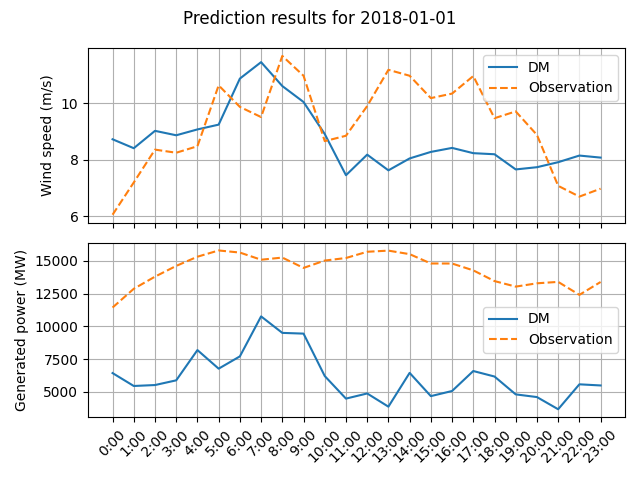
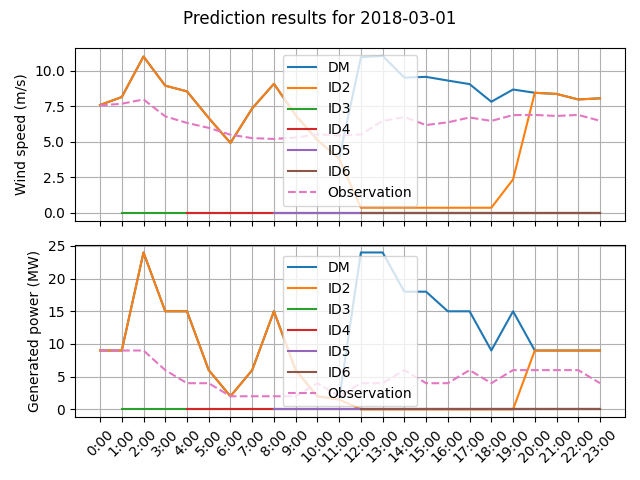
Implemented wind turbine power curve

Changed region(s): [[0.0, 0.5, 0.9688, 0.9688], [0.0, 0.0938, 0.9688, 0.4688], [0.6562, 0.0312, 0.6875, 0.0625]]

diff --git a/pgen_predictor.py b/pgen_predictor.py
@@ -19,9 +19,9 @@ warnings.simplefilter('ignore', UserWarning)
 # Forecast parameters
 hours = [-12, -4, 1, 4, 8, 12]
 labels = ['DM', 'ID2', 'ID3', 'ID4', 'ID5', 'ID6']
-hours = [-12]
-labels = ['DM']
-SARIMA_train_length = 5                     # [days] Training set length for SARIMA prediction
+# hours = [-12]
+# labels = ['DM']
+SARIMA_train_length = 3     # [days] Training set length for SARIMA prediction
 day_start = '2018-03-01'
 day_end = '2018-03-01'
 day_start_ts = pd.Timestamp(day_start)
@@ -53,21 +53,32 @@ nans = dataset.isna().sum()
 print('Amount of nans: ')
 print(nans)
 dataset = dataset.fillna(method='ffill')
+#%% WORKBENCH: Implementing wind turbine power curve
+def WTG_curve(windspeed):
+    # Enercon E-126
+    speed = [0,1,2,3,4,5, 6,7,8,9,10, 11,12,13,14,15, 16,17,18,19,20, 21,22,23,24,25]
+    power = [0,0,0,0.1,0.3,0.4, 0.8,1.2,1.8,3,3.6, 4.8,5.65,6.4,7,7.3, 7.58,7.58,7.58,7.58,7.58, 7.58,7.58,7.58,7.58,7.58]
+    WTG_curve = {}
+    for p,v in enumerate(speed):
+        WTG_curve[f'{v}'] = power[p]
+    Pgen = []
+    for v in windspeed:
+        if v < 0 or v > speed[-1]:
+            Pgen.append(WTG_curve[f'{0}'])
+        else:
+            Pgen.append(WTG_curve[f'{round(v)}']*5)
+    return(Pgen)
 #%% Generate wind power prediction
-SARIMA_train_length = 5     # [days] Training set length for SARIMA prediction
-rf_train_length = 100         # [days] Training set length for random forest estimator
-rf_depth = 20               # Random forest estimator max tree depth
 day = day_start_ts
 pred_start = time.time()
 while day != day_end_ts + pd.Timedelta('1h'):
     print(f'Generating prediction for {day.strftime("%Y-%m-%d")}')
-    day_start = time.time()
+    day_pred_start = time.time()
     Predictions = {}
     for i, hour in enumerate(hours):
         hour_rf = pd.Timestamp(day) + pd.Timedelta(f'{hour}h')
         # Generating training sets
         SARIMA_train = SARIMA_train_set_gen(day, dataset, hour, SARIMA_train_length)
-        rf_train_x, rf_train_y = rf_train_set_gen(hour_rf, dataset, rf_train_length)
         # Generating test sets
         if hour < 1:
             test_start = pd.Timestamp(day)
@@ -78,15 +89,14 @@ while day != day_end_ts + pd.Timedelta('1h'):
         test_end = pd.Timestamp('{} {}'.format(pd.Timestamp(day).strftime('%Y-%m-%d'), '23:00:00'))
         windspe_real = dataset[test_start:test_end].iloc[:, 0].values
         windspe_real = windspe_real.astype(np.float)
-        Pgen_real = dataset[test_start:test_end].iloc[:, 2].values
-        Pgen_real = Pgen_real.astype(np.float)
+        Pgen_real = WTG_curve(windspe_real)
         # Generating wind speed prediction
         windspe_pred = windspe_predictor(SARIMA_train, model_order, model_seasonal_order, hour)
         # Generating wind power estimation
-        Pgen_pred = pgen_estimator(rf_train_x, rf_train_y, rf_depth, windspe_pred)
+        Pgen_pred = WTG_curve(windspe_pred)
         # Analizing and storing prediction results
         windspe_error = round(np.mean(windspe_real-windspe_pred),2)
-        Pgen_error = round(np.mean(Pgen_real-Pgen_pred),2)
+        Pgen_error = round(np.mean(np.array(Pgen_real)-np.array(Pgen_pred)),2)
         windspe_errors.append(windspe_error)
         Pgen_errors.append(Pgen_error)
         # Saving real values (only in first iteration)
@@ -101,12 +111,12 @@ while day != day_end_ts + pd.Timedelta('1h'):
         print("Mean hourly generation deviation: {} MWh".format(Pgen_error))
     Predictions['hours'] = hours
     Pgen_pred_dict[day.strftime("%Y-%m-%d")] = Predictions
-    print(f'Day elapsed time: {round(time.time() - day_start, 2)}s')
+    print(f'Day elapsed time: {round(time.time() - day_pred_start, 2)}s')
     day = day + pd.Timedelta('1d')
 print(f'Day elapsed time: {round((time.time() - pred_start)/3600, 2)}h')
 
-#% Plotting results
-day = '2018-01-01'
+#%% Plotting results
+day = day_start
 Predictions = Pgen_pred_dict[day]
 fig = plt.figure('Prediction results for {}'.format(day))
 plt.suptitle('Prediction results for {}'.format(day))
@@ -129,7 +139,7 @@ pgen_plot= fig.add_subplot(2, 1, 2)
 ticks_x = np.arange(0, len(hour_ticks), 1)
 plt.xticks(np.arange(0, len(hour_ticks), 1), hour_ticks, rotation=45)
 for i, hour in enumerate(Predictions['hours']):
-    Pgen_pred_list = Predictions['Pgen_pred_{}'.format(labels[i])].tolist()
+    Pgen_pred_list = Predictions['Pgen_pred_{}'.format(labels[i])]
     while len(Pgen_pred_list) != len(hour_ticks):
         Pgen_pred_list.insert(0,None)               # Filling with nones to the left to adjust plot length
     plt.plot(Pgen_pred_list, label=f'{labels[i]}')

diff --git a/aux_fcns.py b/aux_fcns.py
@@ -28,3 +28,5 @@ def hourly_xticks(hour):
         else:
             hour_ticks.append('{}:00'.format(i))
     return hour_ticks
+
+#
